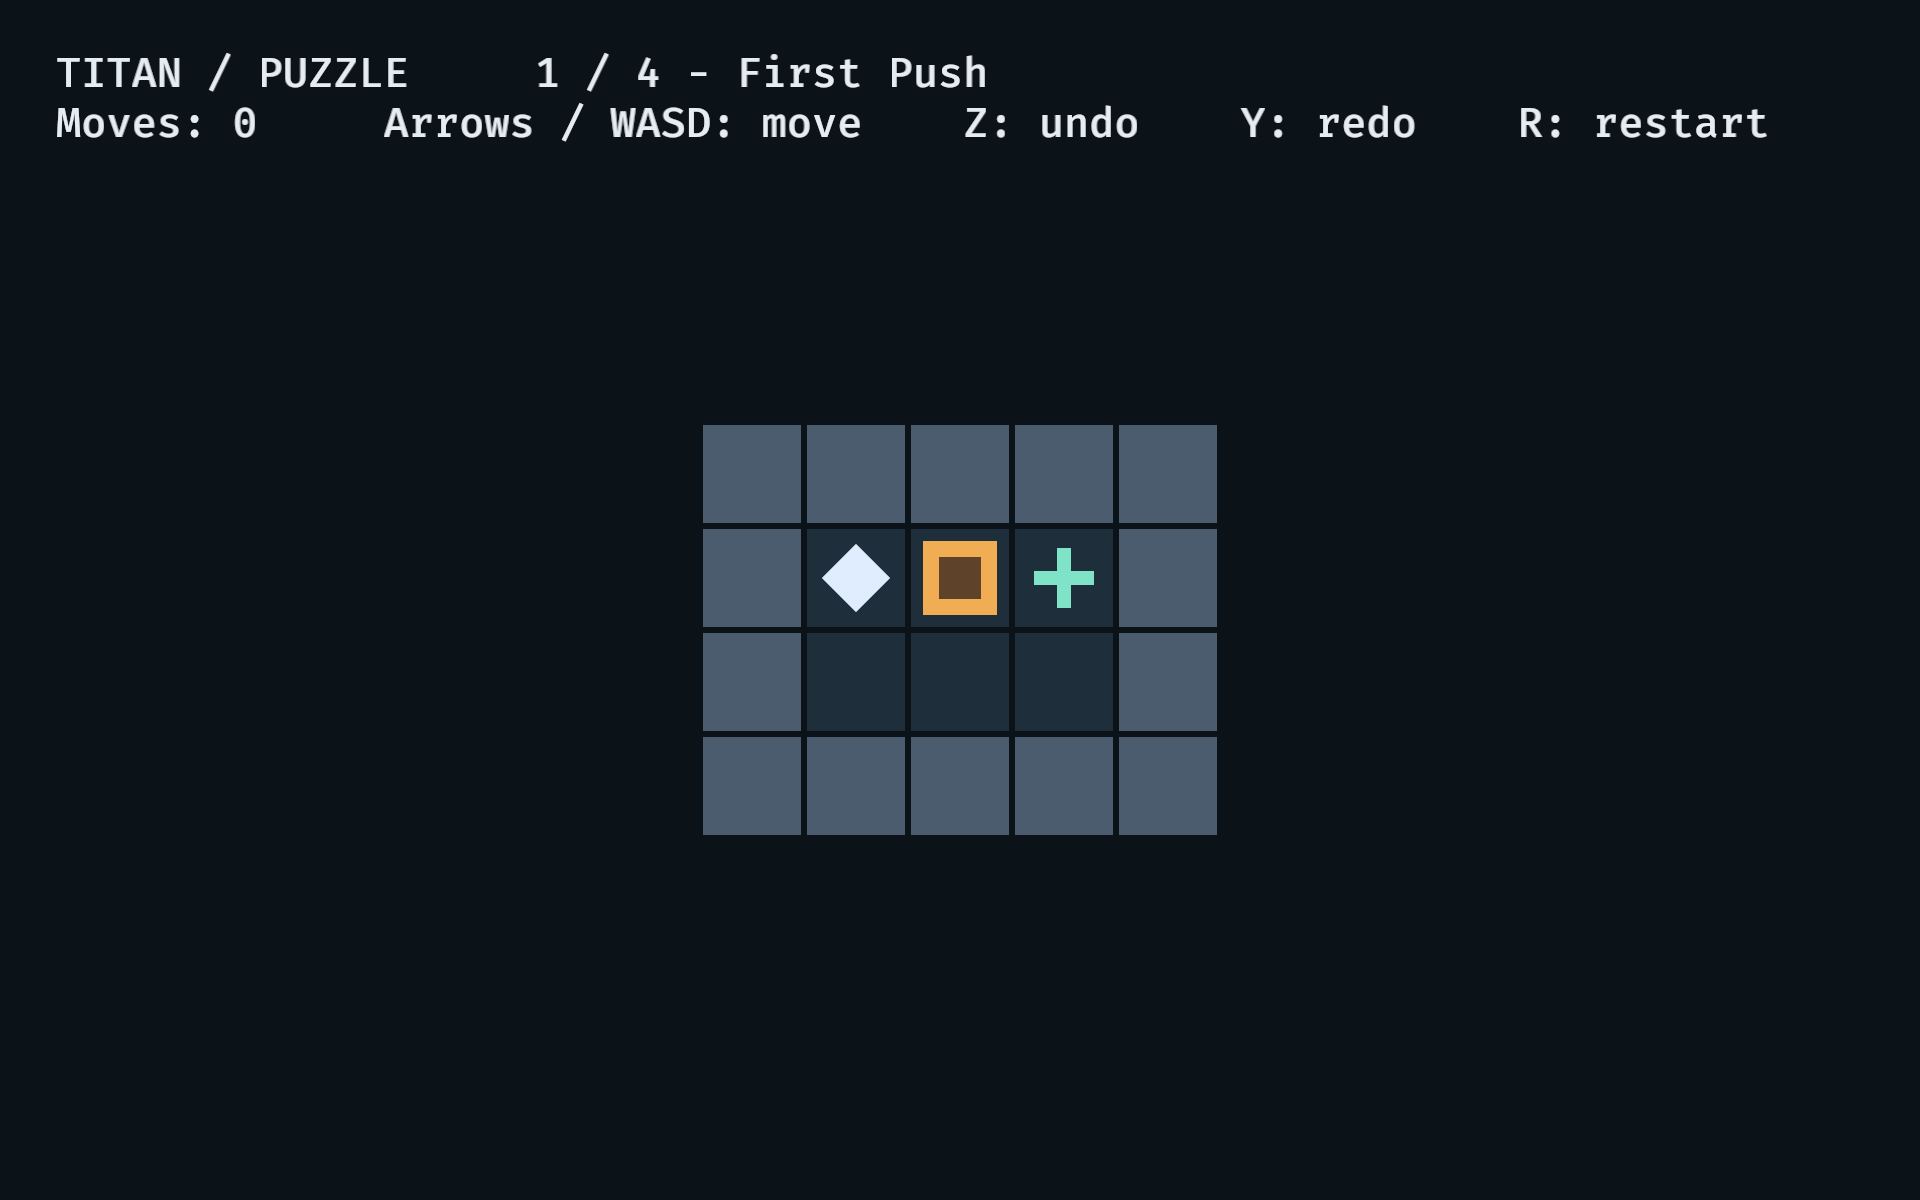
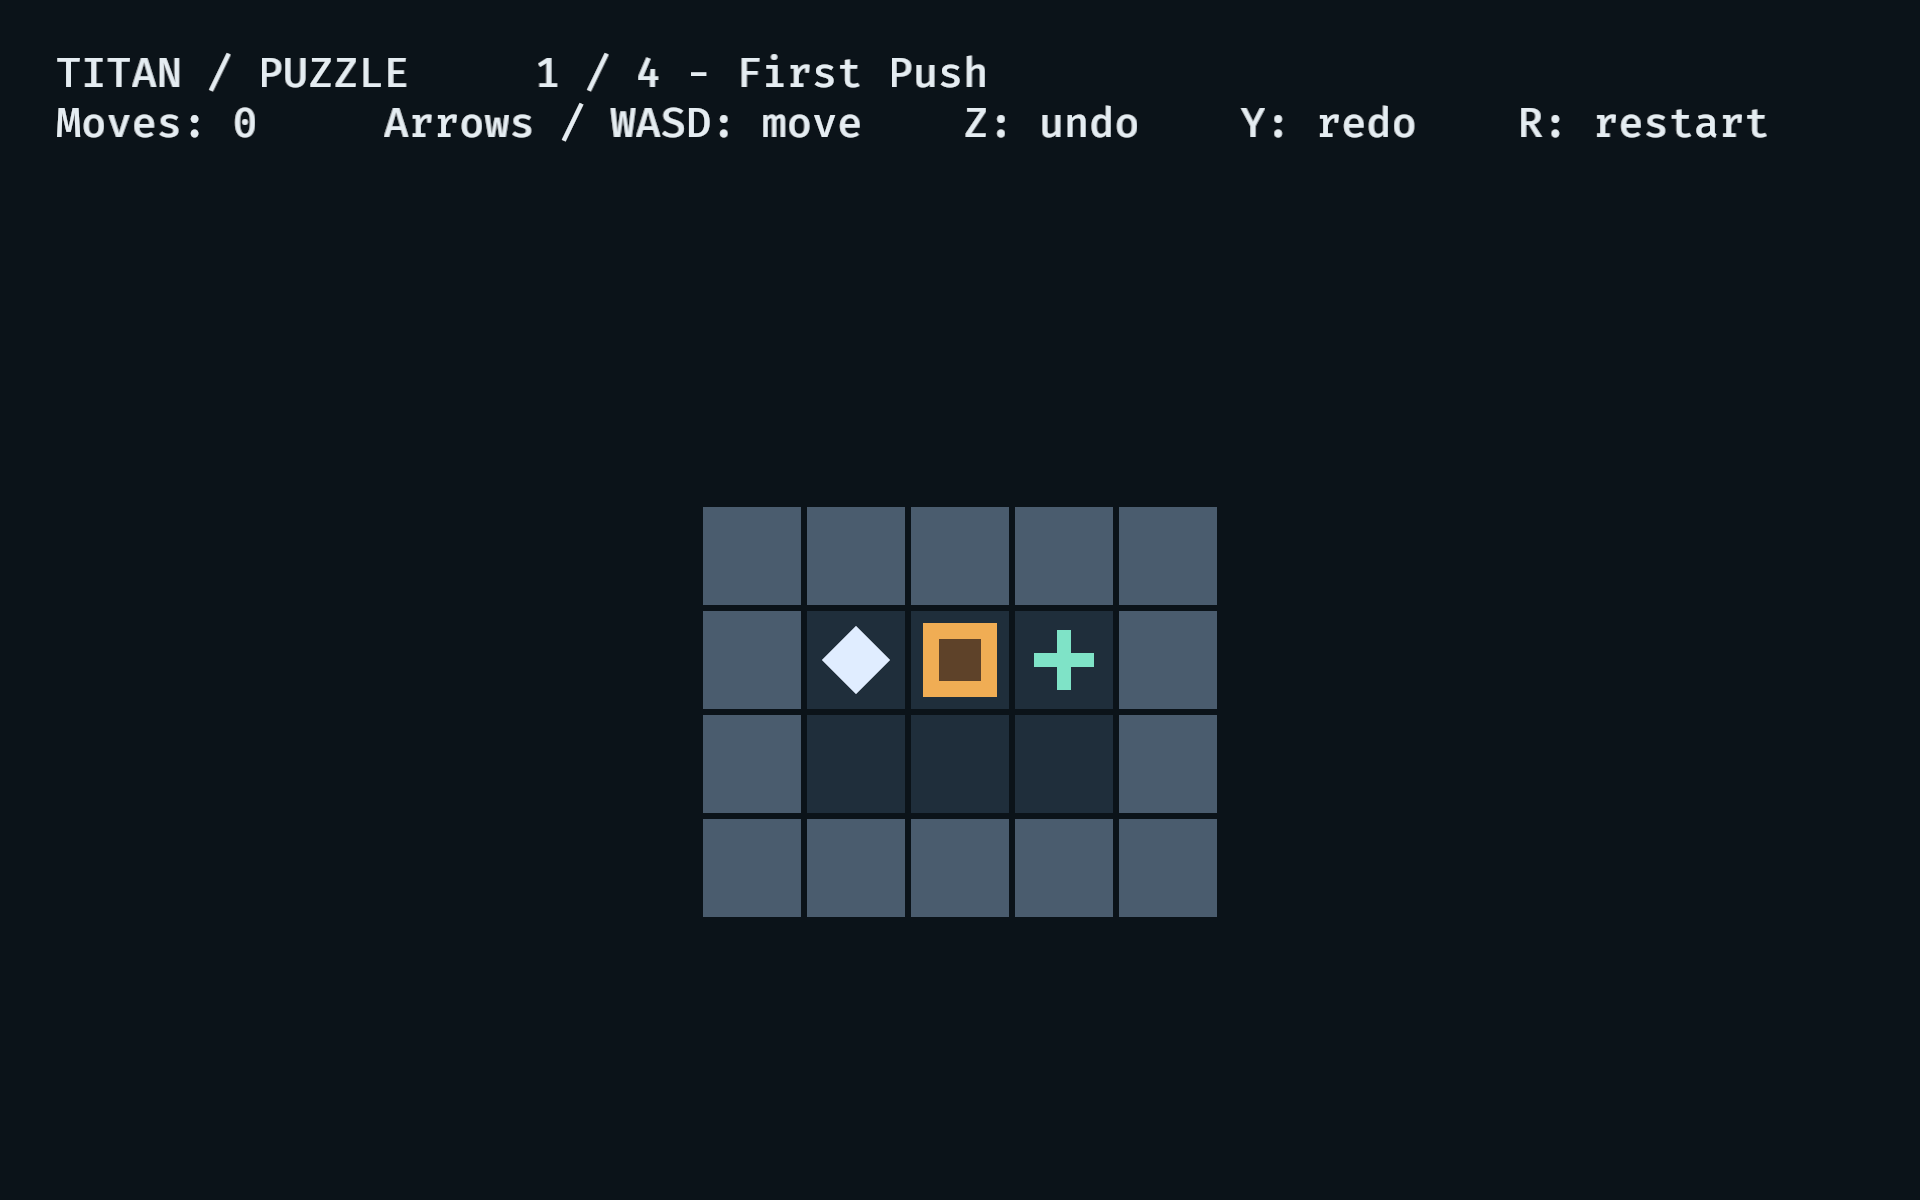
fix(puzzle): fit custom boards and satisfy ancillary CI checks

Changed region(s): [[0.3438, 0.3392, 0.6562, 0.7708]]

diff --git a/demos/puzzle/src/visuals.rs b/demos/puzzle/src/visuals.rs
@@ -1,6 +1,6 @@
 //! Minimal read-only view. Issue #80 owns this module and future animation/art.
 
-use bevy::prelude::*;
+use bevy::{prelude::*, window::PrimaryWindow};
 use titan_puzzle::{level::Cell, Game, GameplayEvent};
 
 pub struct VisualsPlugin;
@@ -35,21 +35,51 @@ fn setup(mut commands: Commands) {
     ));
 }
 
+/// Layout in logical pixels, matching Camera2d's default orthographic viewport.
+struct BoardLayout {
+    tile: f32,
+    center: Vec2,
+    dimensions: Vec2,
+}
+
+impl BoardLayout {
+    fn new(viewport: Vec2, width: usize, height: usize) -> Self {
+        let dimensions = Vec2::new(width as f32, height as f32);
+        let top = (viewport.y * 0.4).min(140.0);
+        let bottom = (viewport.y * 0.05).min(28.0);
+        let side = (viewport.x * 0.05).min(28.0);
+        let available = Vec2::new(viewport.x - side * 2.0, viewport.y - top - bottom);
+        Self {
+            tile: 52.0_f32
+                .min(available.x / dimensions.x)
+                .min(available.y / dimensions.y),
+            center: Vec2::new(0.0, (bottom - top) / 2.0),
+            dimensions,
+        }
+    }
+
+    fn position(&self, cell: Cell) -> Vec2 {
+        self.center
+            + Vec2::new(
+                cell.x as f32 - (self.dimensions.x - 1.0) / 2.0,
+                (self.dimensions.y - 1.0) / 2.0 - cell.y as f32,
+            ) * self.tile
+    }
+}
+
 fn shape(
     commands: &mut Commands,
-    game: &Game,
+    layout: &BoardLayout,
     cell: Cell,
     z: f32,
     size: Vec2,
     color: Color,
     angle: f32,
 ) {
-    let scale = 52.0;
-    let x = (cell.x as f32 - (game.level().width() as f32 - 1.0) / 2.0) * scale;
-    let y = ((game.level().height() as f32 - 1.0) / 2.0 - cell.y as f32) * scale - 15.0;
+    let position = layout.position(cell);
     commands.spawn((
-        Sprite::from_color(color, size),
-        Transform::from_xyz(x, y, z).with_rotation(Quat::from_rotation_z(angle)),
+        Sprite::from_color(color, size * (layout.tile / 52.0)),
+        Transform::from_xyz(position.x, position.y, z).with_rotation(Quat::from_rotation_z(angle)),
         BoardVisual,
     ));
 }
@@ -61,18 +91,23 @@ fn present(
     visuals: Query<Entity, With<BoardVisual>>,
     mut hud: Single<&mut Text, With<Hud>>,
     mut drawn: Local<bool>,
+    window: Single<&Window, With<PrimaryWindow>>,
+    mut previous_viewport: Local<Option<Vec2>>,
 ) {
     // This reader is independent of audio/UX. State remains authoritative when
     // rendering starts late or a consumer misses Bevy's short-lived messages.
     let changed = events.read().count() > 0;
-    if *drawn && !changed {
+    let viewport = Vec2::new(window.width(), window.height());
+    if *drawn && !changed && *previous_viewport == Some(viewport) {
         return;
     }
     *drawn = true;
+    *previous_viewport = Some(viewport);
     for entity in &visuals {
         commands.entity(entity).despawn();
     }
     let level = game.level();
+    let layout = BoardLayout::new(viewport, level.width(), level.height());
     for y in 0..level.height() {
         for x in 0..level.width() {
             let cell = Cell::new(x as i32, y as i32);
@@ -83,7 +118,7 @@ fn present(
             };
             shape(
                 &mut commands,
-                &game,
+                &layout,
                 cell,
                 0.0,
                 Vec2::splat(49.0),
@@ -93,12 +128,12 @@ fn present(
         }
     }
     // Targets use a visible cross, blocks an inset square, player a diamond:
-    // object roles remain recognizable without relying on colour alone.
+    // object roles remain recognizable without relying on color alone.
     for target in level.targets() {
         for size in [Vec2::new(30.0, 7.0), Vec2::new(7.0, 30.0)] {
             shape(
                 &mut commands,
-                &game,
+                &layout,
                 target.position,
                 1.0,
                 size,
@@ -110,7 +145,7 @@ fn present(
     for cell in game.state().blocks().values() {
         shape(
             &mut commands,
-            &game,
+            &layout,
             *cell,
             2.0,
             Vec2::splat(37.0),
@@ -119,7 +154,7 @@ fn present(
         );
         shape(
             &mut commands,
-            &game,
+            &layout,
             *cell,
             3.0,
             Vec2::splat(21.0),
@@ -133,7 +168,7 @@ fn present(
         {
             shape(
                 &mut commands,
-                &game,
+                &layout,
                 *cell,
                 4.0,
                 Vec2::splat(10.0),
@@ -144,7 +179,7 @@ fn present(
     }
     shape(
         &mut commands,
-        &game,
+        &layout,
         game.state().player(),
         5.0,
         Vec2::splat(24.0),
@@ -168,4 +203,35 @@ fn present(
         game.state().moves(),
         status
     );
+}
+
+#[cfg(test)]
+mod tests {
+    use super::*;
+
+    #[test]
+    fn valid_boards_fit_below_hud_at_standard_and_resized_viewports() {
+        for viewport in [
+            Vec2::new(960.0, 600.0),
+            Vec2::new(640.0, 480.0),
+            Vec2::new(320.0, 240.0),
+        ] {
+            for (width, height) in [(64, 64), (64, 3), (3, 64), (5, 4)] {
+                let layout = BoardLayout::new(viewport, width, height);
+                let top = (viewport.y * 0.4).min(140.0);
+                let bottom = (viewport.y * 0.05).min(28.0);
+                for cell in [
+                    Cell::new(0, 0),
+                    Cell::new(width as i32 - 1, height as i32 - 1),
+                ] {
+                    let p = layout.position(cell);
+                    let half = layout.tile / 2.0;
+                    assert!(p.x - half >= -viewport.x / 2.0);
+                    assert!(p.x + half <= viewport.x / 2.0);
+                    assert!(p.y - half >= -viewport.y / 2.0 + bottom - 0.001);
+                    assert!(p.y + half <= viewport.y / 2.0 - top + 0.001);
+                }
+            }
+        }
+    }
 }

diff --git a/demos/puzzle/README.md b/demos/puzzle/README.md
@@ -26,7 +26,8 @@ listed in [the dependency guide](../../docs/linux_dependencies.md).
 Completing a level shows its solved board, then advances after 1.2 seconds. Undo
 or restart during that interval cancels the transition. On the last level the
 solved board stays visible; undo and restart still work. Loading a custom file
-creates a one-level campaign. Invalid files fail before creating a window.
+creates a one-level campaign. The board fits the window (including large custom
+levels) and refits on resize. Invalid files fail before creating a window.
 `--capture` saves a PNG after 120 presentation frames and exits; save failure or
 closing the window early returns a nonzero status. This is not a headless command.
 
@@ -34,7 +35,7 @@ closing the window early returns a nonzero status. This is not a headless comman
 
 This new demo has no before image. The capture is from the running macOS/Metal
 build. Shapes are original procedural placeholders (square blocks, cross targets,
-and a diamond player), under the repository's MIT/Apache-2.0 licence. No external
+and a diamond player), under the repository's MIT/Apache-2.0 license. No external
 art or audio assets are bundled; text uses Bevy's existing default font.
 
 ## Parallel ownership / architecture
